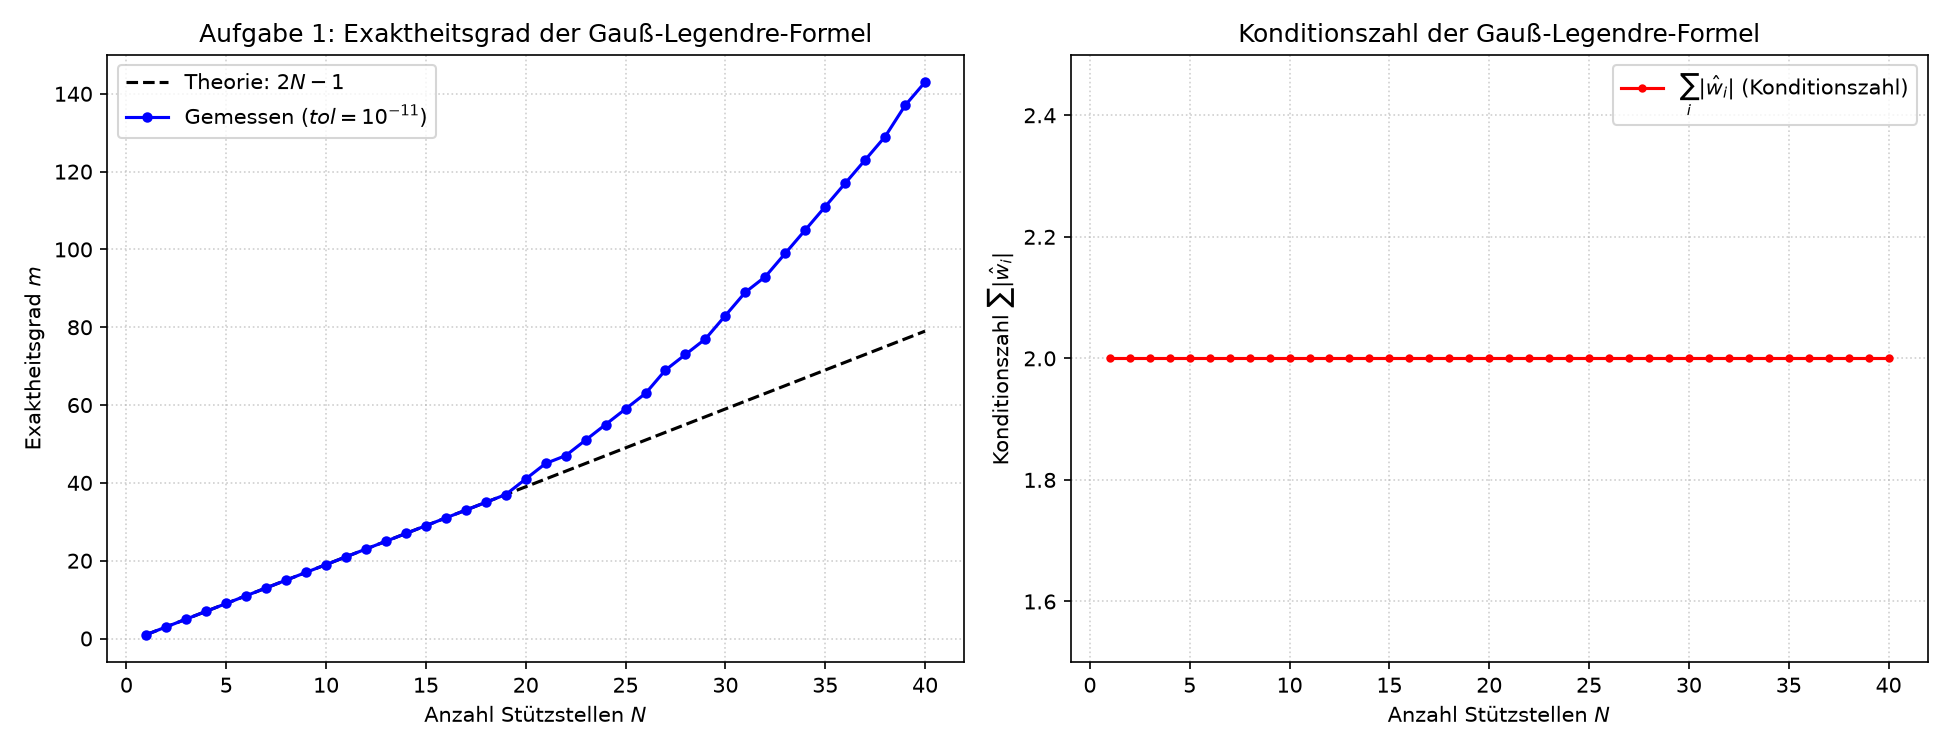
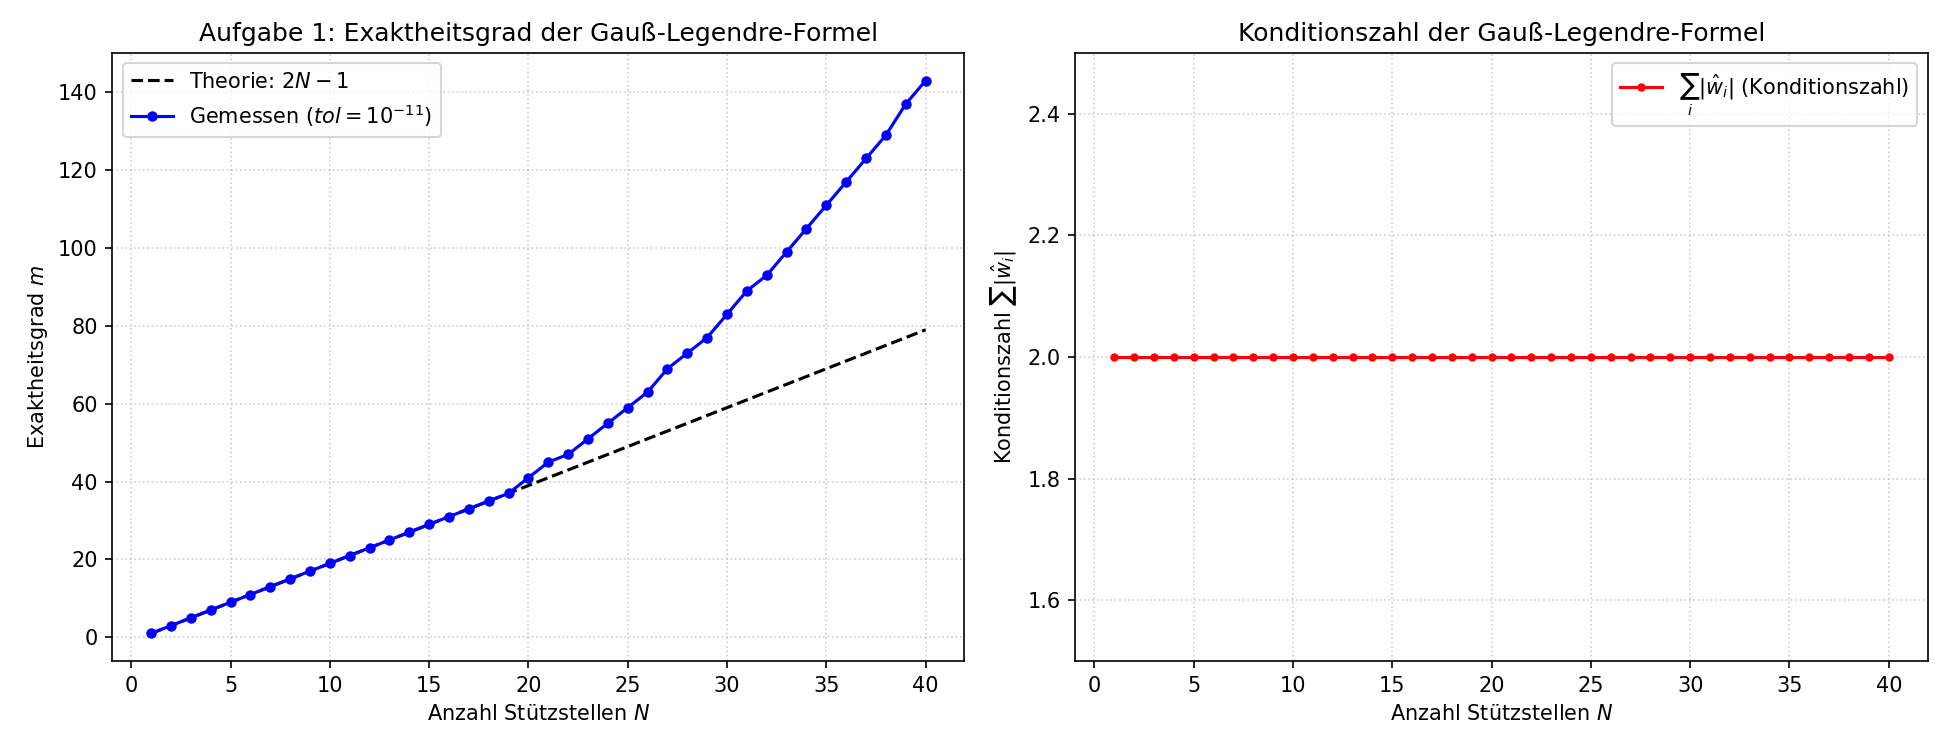
Finn: aufgabe 5A

diff --git a/PP3/aufgabe5.py b/PP3/aufgabe5.py
@@ -1,0 +1,114 @@
+"""Programmierprojekt 3: Numerische Integration.
+
+Aufgabe 5 (Option A): Systematischer Fehler – konstanter Offset des Messgeräts.
+"""
+
+from pathlib import Path
+import matplotlib.pyplot as plt
+import numpy as np
+
+from aufgabe1 import gauss_formel, quadratur, transformiere
+from aufgabe2 import nc_formel
+
+
+def kapazitaet(v):
+    """Exakte Kapazität C(v) in µF."""
+    return 10.0 / (1.0 + (v / 8.0) ** 2)
+
+
+def berechne_fehler_mit_offset(x, w, offset, w_exakt):
+    """Berechnet Quadratur-, Daten-, Gesamtfehler und die Worst-Case-Schranke."""
+    c_exakt = kapazitaet(x)
+    c_offset = c_exakt + offset  # Konstanter systematischer Fehler
+
+    q_exakt = quadratur(x * c_exakt, w)
+    q_offset = quadratur(x * c_offset, w)
+
+    e_quad = abs(q_exakt - w_exakt)
+    e_daten = abs(q_offset - q_exakt)
+    e_gesamt = abs(q_offset - w_exakt)
+    schranke = abs(offset) * np.sum(np.abs(w) * x)
+
+    return e_quad, e_daten, e_gesamt, schranke
+
+
+def main():
+    a, b = 0.0, 12.0
+    w_exakt = 320.0 * np.log1p((12.0 / 8.0) ** 2)  # ~ 377.170 µJ
+    offset = 0.01  # Konstanter Offset: +0,01 µF
+    theorie_datenfehler = abs(offset) * 0.5 * (b**2 - a**2)  # 0.01 * 72 = 0.72 µJ
+
+    n_werte = np.arange(2, 41)
+
+    # Ergebnisse speichern
+    ergebnisse = {
+        "Gauß-Legendre": {"quad": [], "daten": [], "gesamt": [], "schranke": []},
+        "Newton-Cotes": {"quad": [], "daten": [], "gesamt": [], "schranke": []},
+    }
+
+
+    for N in n_werte:
+        for name, formel in (("Gauß-Legendre", gauss_formel), ("Newton-Cotes", nc_formel)):
+            x_hat, w_hat = formel(N)
+            x, w = transformiere(x_hat, w_hat, a, b)
+            eq, ed, eg, schr = berechne_fehler_mit_offset(x, w, offset, w_exakt)
+
+            ergebnisse[name]["quad"].append(eq)
+            ergebnisse[name]["daten"].append(ed)
+            ergebnisse[name]["gesamt"].append(eg)
+            ergebnisse[name]["schranke"].append(schr)
+
+    # Konsolenausgabe
+    print("=" * 78)
+    print(f"Aufgabe 5A: Konstanter Offset (Delta C = +{offset:.2f} µF)")
+    print(f"Theoretischer Datenfehler: Delta C * 72 V^2 = {theorie_datenfehler:.4f} µJ")
+    print("=" * 78)
+    print(f"{'N':>3} | {'Gauß e_daten':>13} | {'Gauß e_ges':>11} | {'NC e_daten':>12} | {'NC Schranke':>12}")
+    print("-" * 78)
+    for i, N in enumerate(n_werte):
+        if N in (2, 3, 4, 5, 8, 10, 15, 20, 25, 30, 35, 40):
+            gd = ergebnisse["Gauß-Legendre"]["daten"][i]
+            gg = ergebnisse["Gauß-Legendre"]["gesamt"][i]
+            nd = ergebnisse["Newton-Cotes"]["daten"][i]
+            ns = ergebnisse["Newton-Cotes"]["schranke"][i]
+            print(f"{N:3d} | {gd:13.6f} | {gg:11.6f} | {nd:12.6f} | {ns:12.2e}")
+    print("=" * 78)
+
+    # Visualisierung
+    fig, (ax1, ax2) = plt.subplots(1, 2, figsize=(14, 5.5))
+
+    # Plot 1: Gauß-Legendre
+    g = ergebnisse["Gauß-Legendre"]
+    ax1.semilogy(n_werte, np.maximum(g["quad"], 1e-16), "b.-", label=r"$e_{\mathrm{Quad}}$ (exakte Daten)")
+    ax1.semilogy(n_werte, g["daten"], "s-", color="orange", markersize=4, label=r"$e_{\mathrm{Daten}}$ (Offset)")
+    ax1.semilogy(n_werte, g["gesamt"], "r--", linewidth=1.8, label=r"$e_{\mathrm{Gesamt}}$")
+    ax1.axhline(theorie_datenfehler, color="black", linestyle=":", label=rf"Theorie $\Delta C \cdot 72 = {theorie_datenfehler:.2f}\,\mu$J")
+    ax1.axhline(1.0, color="green", linestyle="--", alpha=0.7, label=r"Ziel: $1\,\mu$J")
+    ax1.set_title(rf"Gauß-Legendre mit Offset ($\Delta C = +{offset}\,\mu$F)")
+    ax1.set_xlabel("Anzahl Stützstellen $N$")
+    ax1.set_ylabel(r"Fehler [$\mu$J] (log. Skala)")
+    ax1.grid(True, which="both", linestyle=":", alpha=0.6)
+    ax1.legend(loc="lower left")
+
+    # Plot 2: Newton-Cotes (Offset vs. Worst-Case-Schranke)
+    nc = ergebnisse["Newton-Cotes"]
+    ax2.semilogy(n_werte, np.maximum(nc["quad"], 1e-16), "b.-", label=r"$e_{\mathrm{Quad}}$ (exakte Daten)")
+    ax2.semilogy(n_werte, nc["daten"], "s-", color="orange", markersize=4, label=r"$e_{\mathrm{Daten}}$ (Offset)")
+    ax2.semilogy(n_werte, nc["schranke"], "k--", label=r"Schranke $|\Delta C| \sum |w_i| v_i$")
+    ax2.axhline(theorie_datenfehler, color="gray", linestyle=":", label=rf"Theorie ${theorie_datenfehler:.2f}\,\mu$J")
+    ax2.set_title(rf"Newton-Cotes mit Offset ($\Delta C = +{offset}\,\mu$F)")
+    ax2.set_xlabel("Anzahl Stützstellen $N$")
+    ax2.set_ylabel(r"Fehler [$\mu$J] (log. Skala)")
+    ax2.grid(True, which="both", linestyle=":", alpha=0.6)
+    ax2.legend(loc="upper left")
+
+    plt.tight_layout()
+
+    fig_dir = Path(__file__).resolve().parent / "figures"
+    fig_dir.mkdir(exist_ok=True)
+    plt.savefig(fig_dir / "aufgabe5_offset.png", dpi=150)
+    plt.show()
+
+
+if __name__ == "__main__":
+    main()

diff --git a/PP2/aufgabe3.py b/PP2/aufgabe3.py
@@ -34,19 +34,6 @@ def berechne_lebesgue_konstante(x_nodes, w, x_eval):
     lambda_x = np.sum(np.abs(l_basis), axis=1)
     return np.max(lambda_x)
 
-def vandermonde_matrix(x):
-    n = len(x) - 1
-    V = np.zeros((len(x), n + 1))
-    for j in range(n + 1):
-        V[:, j] = x**j
-    return V
-
-def horner_schema(a, x_eval):
-    p = np.zeros_like(x_eval, dtype=float)
-    for i in range(len(a) - 1, -1, -1):
-        p = p * x_eval + a[i]
-    return p
-
 
 # ==============================================================================
 # HAUPTPROGRAMM
@@ -64,7 +51,6 @@ def main():
     E_pruef = pruefraster["E_mV"].values
     T_exakt_pruef = pruefraster["T_exakt_C"].values
 
-    # KORRIGIERTE SPALTENREIHENFOLGE: Erst T_exakt_C, dann T_kalibrator_C!
     spalten_stuetz = ["n", "i", "E_mV", "T_exakt_C", "T_kalibrator_C"]
     df_aequi = pd.read_csv(os.path.join(daten_ordner, "stuetzwerte_aequidistant.csv"), comment="#", sep=r'\s+', names=spalten_stuetz)
     df_tscheby = pd.read_csv(os.path.join(daten_ordner, "stuetzwerte_tschebyscheff.csv"), comment="#", sep=r'\s+', names=spalten_stuetz)
@@ -86,15 +72,20 @@ def main():
         
         w_aequi = baryzentrische_gewichte(x_aequi)
         p_exakt_aequi = baryzentrische_interpolation(x_aequi, y_exakt_aequi, w_aequi, E_pruef)
+
+        # Berechnung des Interpolationsfehlers für Äquidistante Stützstellen
         e_interp_aequi.append(np.max(np.abs(p_exakt_aequi - T_exakt_pruef)))
+
 
         # 2. Tschebyscheff-Stützstellen
         daten_tscheby = df_tscheby[df_tscheby["n"] == n]
         x_tscheby = daten_tscheby["E_mV"].values
         y_exakt_tscheby = daten_tscheby["T_exakt_C"].values 
-        
+
         w_tscheby = baryzentrische_gewichte(x_tscheby)
         p_exakt_tscheby = baryzentrische_interpolation(x_tscheby, y_exakt_tscheby, w_tscheby, E_pruef)
+
+        # Berechnung des Interpolationsfehlers für Tschebyscheff-Stützstellen
         e_interp_tscheby.append(np.max(np.abs(p_exakt_tscheby - T_exakt_pruef)))
 
     plt.figure(1, figsize=(9, 5))
@@ -126,6 +117,7 @@ def main():
         p_kali_aequi = baryzentrische_interpolation(x_aequi, y_kali_aequi, w_aequi, E_pruef)
         
         e_daten_aequi.append(np.max(np.abs(p_kali_aequi - p_exakt_aequi)))
+        # Berechnung der Schranke für den Datenfehler unter Verwendung der Lebesgue-Konstante
         schranke_aequi.append(berechne_lebesgue_konstante(x_aequi, w_aequi, E_pruef) * 0.005)
 
         # 2. Tschebyscheff-Stützstellen
@@ -139,6 +131,7 @@ def main():
         p_kali_tscheby = baryzentrische_interpolation(x_tscheby, y_kali_tscheby, w_tscheby, E_pruef)
         
         e_daten_tscheby.append(np.max(np.abs(p_kali_tscheby - p_exakt_tscheby)))
+        # Berechnung der Schranke für den Datenfehler unter Verwendung der Lebesgue-Konstante
         schranke_tscheby.append(berechne_lebesgue_konstante(x_tscheby, w_tscheby, E_pruef) * 0.005)
 
     fig2, (ax1, ax2) = plt.subplots(1, 2, figsize=(14, 5))
